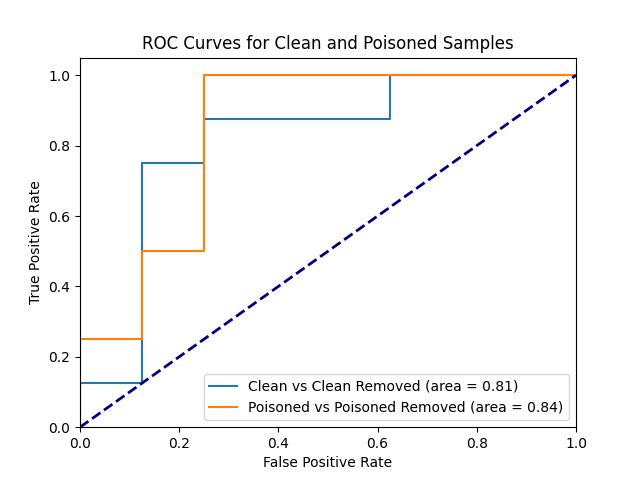
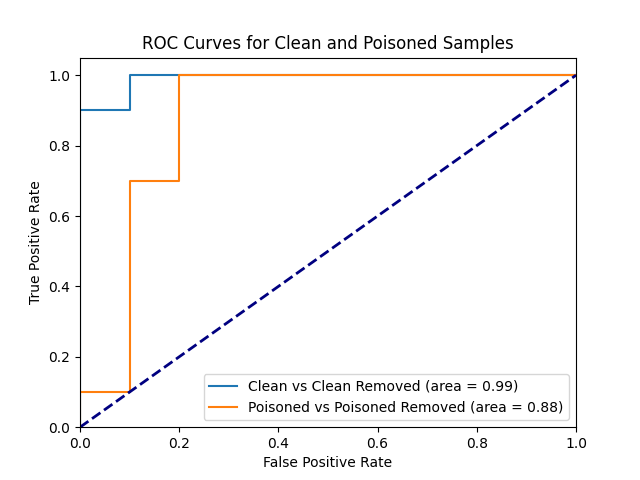
Version -1

diff --git a/poisoner.py b/poisoner.py
@@ -20,22 +20,22 @@ class Poisoner:
         poison_indices = self._select_indices(num_to_poison)
         print(f'poison_indices:{poison_indices}')
         num_per_label = self.repeat_num // 10  
-        for label in range(10):  # 对每个标签进行操作
-            for idx in poison_indices:
-                data, _ = self.reduced_train_dl.dataset[idx]
-                # 每个标签添加指定次数的投毒样本
+        for idx in poison_indices:
+            for label in range(10): 
                 for _ in range(num_per_label):
-                    self.poisoned_data.append((data, label))  # 使用当前的label而不是随机标签
+                    data, _ = self.reduced_train_dl.dataset[idx]
+                    self.poisoned_data.append((data, label)) 
         self._apply_poison()
 
     # 投放num_to_poison个original_label的投毒数据
     def poison_fixed_label(self, num_to_poison, fixed_label, use_original_label=False):
         poison_indices = self._select_indices(num_to_poison)
         print(f'poison_indices:{poison_indices}')
+
         for idx in poison_indices:
             for _ in range(self.repeat_num):
                 data, original_label = self.reduced_train_dl.dataset[idx]
-                if use_original_label and original_label != fixed_label:
+                if use_original_label:
                     label = original_label
                 else:
                     label = fixed_label
@@ -48,18 +48,18 @@ class Poisoner:
 
         # y' != y
         num_per_label = self.repeat_num // 10  
-        for label in range(10): 
-            for idx in poison_indices:
-                data, original_label = self.reduced_train_dl.dataset[idx]
-                if label != original_label:
-                    for _ in range(num_per_label):
+        for idx in poison_indices:
+            for label in range(10): 
+                for _ in range(num_per_label):
+                    data, original_label = self.reduced_train_dl.dataset[idx]
+                    if label != original_label:
                         self.poisoned_data.append((data, label)) 
 
         # y' == y
         for idx in poison_indices:
             for _ in range(self.repeat_num):
                 data, original_label = self.reduced_train_dl.dataset[idx]
-                if use_original_label and original_label != fixed_label:
+                if use_original_label:
                     label = original_label
                 else:
                     label = fixed_label

diff --git a/plot.py b/plot.py
@@ -11,7 +11,7 @@ def find_tpr_at_fpr(fpr, tpr, target_fpr=0.001):
 
 # 解析命令行参数
 parser = argparse.ArgumentParser()
-parser.add_argument("--poison_type", default="fixed_label", type=str, choices=["random_uniform", "fixed_label", "flipped_label"])
+parser.add_argument("--poison_type", default="flipped_label", type=str, choices=["random_uniform", "fixed_label", "flipped_label"])
 parser.add_argument("--sample_index", type=int, default=0, help="Index of the sample to extract scores for")
 args = parser.parse_args()
 savedir = os.path.join("exp/cifar10", args.poison_type)

diff --git a/calculate.py b/calculate.py
@@ -8,7 +8,7 @@ def calculate_probability(scores):
 
 # 解析命令行参数
 parser = argparse.ArgumentParser()
-parser.add_argument("--poison_type", default="fixed_label", type=str, choices=["random_uniform", "fixed_label", "flipped_label"])
+parser.add_argument("--poison_type", default="flipped_label", type=str, choices=["random_uniform", "fixed_label", "flipped_label"])
 parser.add_argument("--sample_index", type=int, default=0, help="Index of the sample to extract scores for")
 args = parser.parse_args()
 savedir = os.path.join("exp/cifar10", args.poison_type)
